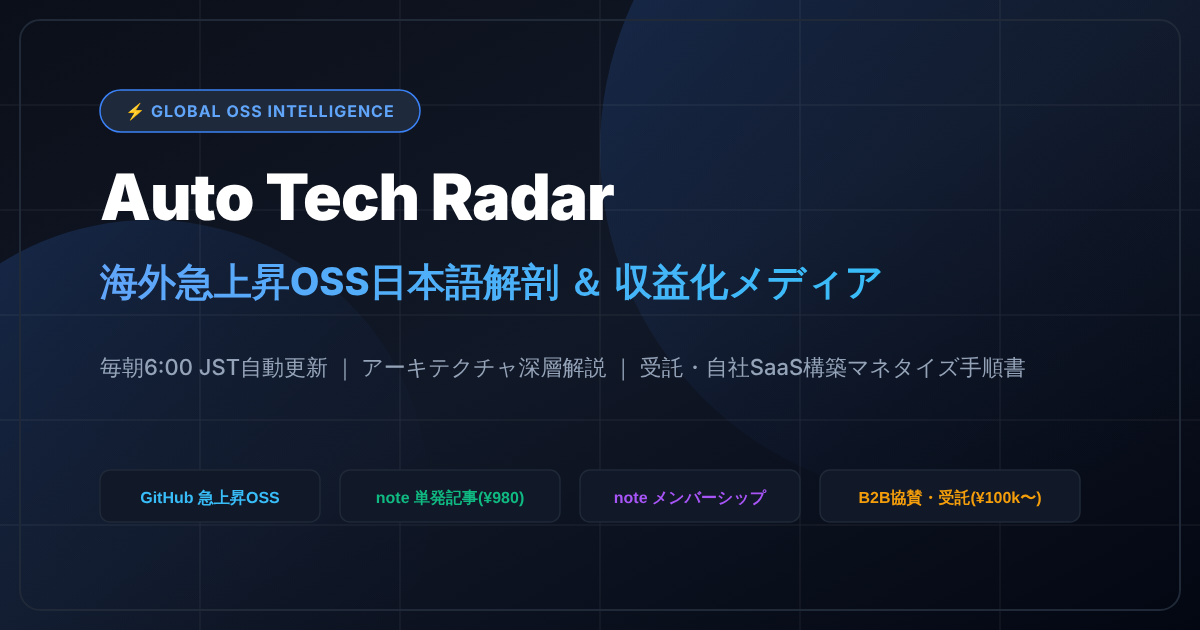
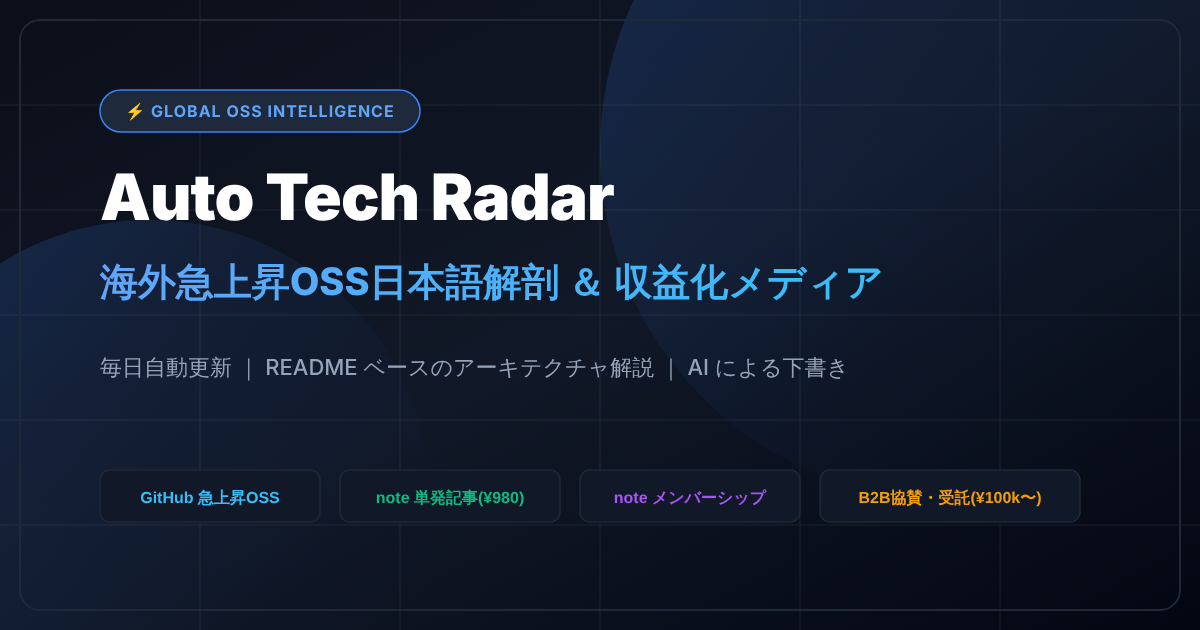
fix: no implied third-party ratings or unbacked promises on the site
- Star-count bands replace 'ThoughtWorks: ADOPT/TRIAL/ASSESS/HOLD' in
  article badges, radar map, cheatsheet and the API; one shared
  definition (src/utils/articles.js) and the criterion is stated on the
  radar map. The generator prompt no longer asks Gemini for a
  'ThoughtWorks maturity ring'; 9 articles (+ Zenn copies, 3 note free
  parts) renamed to an explicitly AI-made estimate.
- Remove 毎朝6:00 配信 / 世界最速 / 世界最先端 / 1営業日以内 and stale
  'PRO area on this page' copy (pdfcraft, wordcraft); og-card refreshed.
- Tests forbid these phrases in all public text.

Claude-Session: https://claude.ai/code/session_01P8zGv7jC9mQDvGeAPUEKYp

Changed region(s): [[0.0925, 0.5429, 0.8633, 0.6032]]

diff --git a/src/pages/api/radar.json.ts b/src/pages/api/radar.json.ts
@@ -1,5 +1,5 @@
 import type { APIRoute } from 'astro';
-import { getArticles, slugOf } from '../../utils/articles.js';
+import { getArticles, slugOf, starTier, STAR_TIERS, STAR_TIER_NOTE } from '../../utils/articles.js';
 
 export const GET: APIRoute = async () => {
   // ノイズ記事は getArticles 側で除外済み
@@ -7,11 +7,8 @@ export const GET: APIRoute = async () => {
     const slug = slugOf(post);
     const fm = post.frontmatter || {};
     const stars = Number(fm.stars) || 0;
-    let ring = "TRIAL";
-    if (stars >= 15000) ring = "ADOPT";
-    else if (stars >= 5000) ring = "TRIAL";
-    else if (stars >= 1000) ring = "ASSESS";
-    else ring = "HOLD";
+    // GitHub スター数による区分（評価・推奨ではない）
+    const ring = starTier(stars).label;
 
     return {
       slug,
@@ -32,12 +29,7 @@ export const GET: APIRoute = async () => {
     endpoint_url: "https://ssk0224.github.io/auto-tech-radar/api/radar.json",
     total_tracked_oss: items.length,
     updated_at: new Date().toISOString(),
-    rings_definition: {
-      ADOPT: "Stars >= 15,000: 商用本番稼働推奨・デファクトスタンダード基盤",
-      TRIAL: "Stars >= 5,000: 本番採用検証・高ROI期待新星",
-      ASSESS: "Stars >= 1,000: 急上昇トレンド・先行調査推奨",
-      HOLD: "検証保留・動向注視"
-    },
+    rings_definition: { tiers: STAR_TIERS.map((t) => t.label), note: STAR_TIER_NOTE },
     data: items
   }, null, 2), {
     headers: {

diff --git a/src/utils/articles.js b/src/utils/articles.js
@@ -29,3 +29,17 @@ export function getArticles() {
       return tb - ta || slugOf(a).localeCompare(slugOf(b));
     });
 }
+
+// GitHub スター数による区分（記事の評価や推奨ではない）。レーダー・記事・チートシートで共通
+export const STAR_TIERS = [
+  { min: 15000, label: "★15,000+", color: "#34d399", bg: "rgba(16, 185, 129, 0.18)", border: "rgba(16, 185, 129, 0.4)" },
+  { min: 5000, label: "★5,000+", color: "#60a5fa", bg: "rgba(59, 130, 246, 0.18)", border: "rgba(59, 130, 246, 0.4)" },
+  { min: 1000, label: "★1,000+", color: "#fbbf24", bg: "rgba(245, 158, 11, 0.18)", border: "rgba(245, 158, 11, 0.4)" },
+  { min: 0, label: "★1,000未満", color: "#94a3b8", bg: "rgba(148, 163, 184, 0.18)", border: "rgba(148, 163, 184, 0.4)" },
+];
+export const STAR_TIER_NOTE = "区分は記事作成時点の GitHub スター数のみで機械的に決めたもので、採用の推奨や品質の評価ではありません。";
+export function starTier(stars) {
+  const n = Number(stars) || 0;
+  const ring = STAR_TIERS.findIndex((t) => n >= t.min);
+  return { ring, ...STAR_TIERS[ring] };
+}

diff --git a/src/config/site.js b/src/config/site.js
@@ -3,7 +3,7 @@
 
 export const siteConfig = {
   name: "Auto Tech Radar",
-  tagline: "世界最速のAIエージェント・急上昇OSS解体新書",
+  tagline: "急上昇OSSの日本語解説",
   url: "https://ssk0224.github.io/auto-tech-radar",
   
   // 有料記事の販売は note のみ（購入者だけが読める note の有料エリアで提供する）。

diff --git a/articles/laya-mlx-tech-radar.md b/articles/laya-mlx-tech-radar.md
@@ -10,7 +10,7 @@ published: true
 
 `laya-mlx`は、Apple Siliconデバイス上でLayaの型付き意思決定モデルをネイティブに実行するための、超高速なMLXランタイムです。従来のLLM（大規模言語モデル）が抱える高遅延、高コスト、クラウド依存といった課題を解決し、ミリ秒単位でのリアルタイムな意思決定を可能にします。テキスト生成を伴わない「選択」「スコア付け」「真偽判定」といった特定のタスクに特化することで、M3 Maxチップ上でわずか7〜14ミリ秒という驚異的な応答速度を実現します。PyTorchやTransformersランタイム、さらにはクラウドAPIへの依存も一切ありません。
 
-## 🎯 ThoughtWorks成熟度リング判定（ADOPT / TRIAL / ASSESS / HOLD）
+## 🎯 成熟度の目安（AI による見立て）
 
 **判定: TRIAL**
 

diff --git a/zenn_drafts/laya-mlx_zenn.md b/zenn_drafts/laya-mlx_zenn.md
@@ -10,7 +10,7 @@ published: true
 
 `laya-mlx`は、Apple Siliconデバイス上でLayaの型付き意思決定モデルをネイティブに実行するための、超高速なMLXランタイムです。従来のLLM（大規模言語モデル）が抱える高遅延、高コスト、クラウド依存といった課題を解決し、ミリ秒単位でのリアルタイムな意思決定を可能にします。テキスト生成を伴わない「選択」「スコア付け」「真偽判定」といった特定のタスクに特化することで、M3 Maxチップ上でわずか7〜14ミリ秒という驚異的な応答速度を実現します。PyTorchやTransformersランタイム、さらにはクラウドAPIへの依存も一切ありません。
 
-## 🎯 ThoughtWorks成熟度リング判定（ADOPT / TRIAL / ASSESS / HOLD）
+## 🎯 成熟度の目安（AI による見立て）
 
 **判定: TRIAL**
 

diff --git a/src/pages/radar/laya-mlx.md b/src/pages/radar/laya-mlx.md
@@ -12,7 +12,7 @@ stars: 6956
 
 `laya-mlx`は、Apple Siliconデバイス上でLayaの型付き意思決定モデルをネイティブに実行するための、超高速なMLXランタイムです。従来のLLM（大規模言語モデル）が抱える高遅延、高コスト、クラウド依存といった課題を解決し、ミリ秒単位でのリアルタイムな意思決定を可能にします。テキスト生成を伴わない「選択」「スコア付け」「真偽判定」といった特定のタスクに特化することで、M3 Maxチップ上でわずか7〜14ミリ秒という驚異的な応答速度を実現します。PyTorchやTransformersランタイム、さらにはクラウドAPIへの依存も一切ありません。
 
-## 🎯 ThoughtWorks成熟度リング判定（ADOPT / TRIAL / ASSESS / HOLD）
+## 🎯 成熟度の目安（AI による見立て）
 
 **判定: TRIAL**
 
